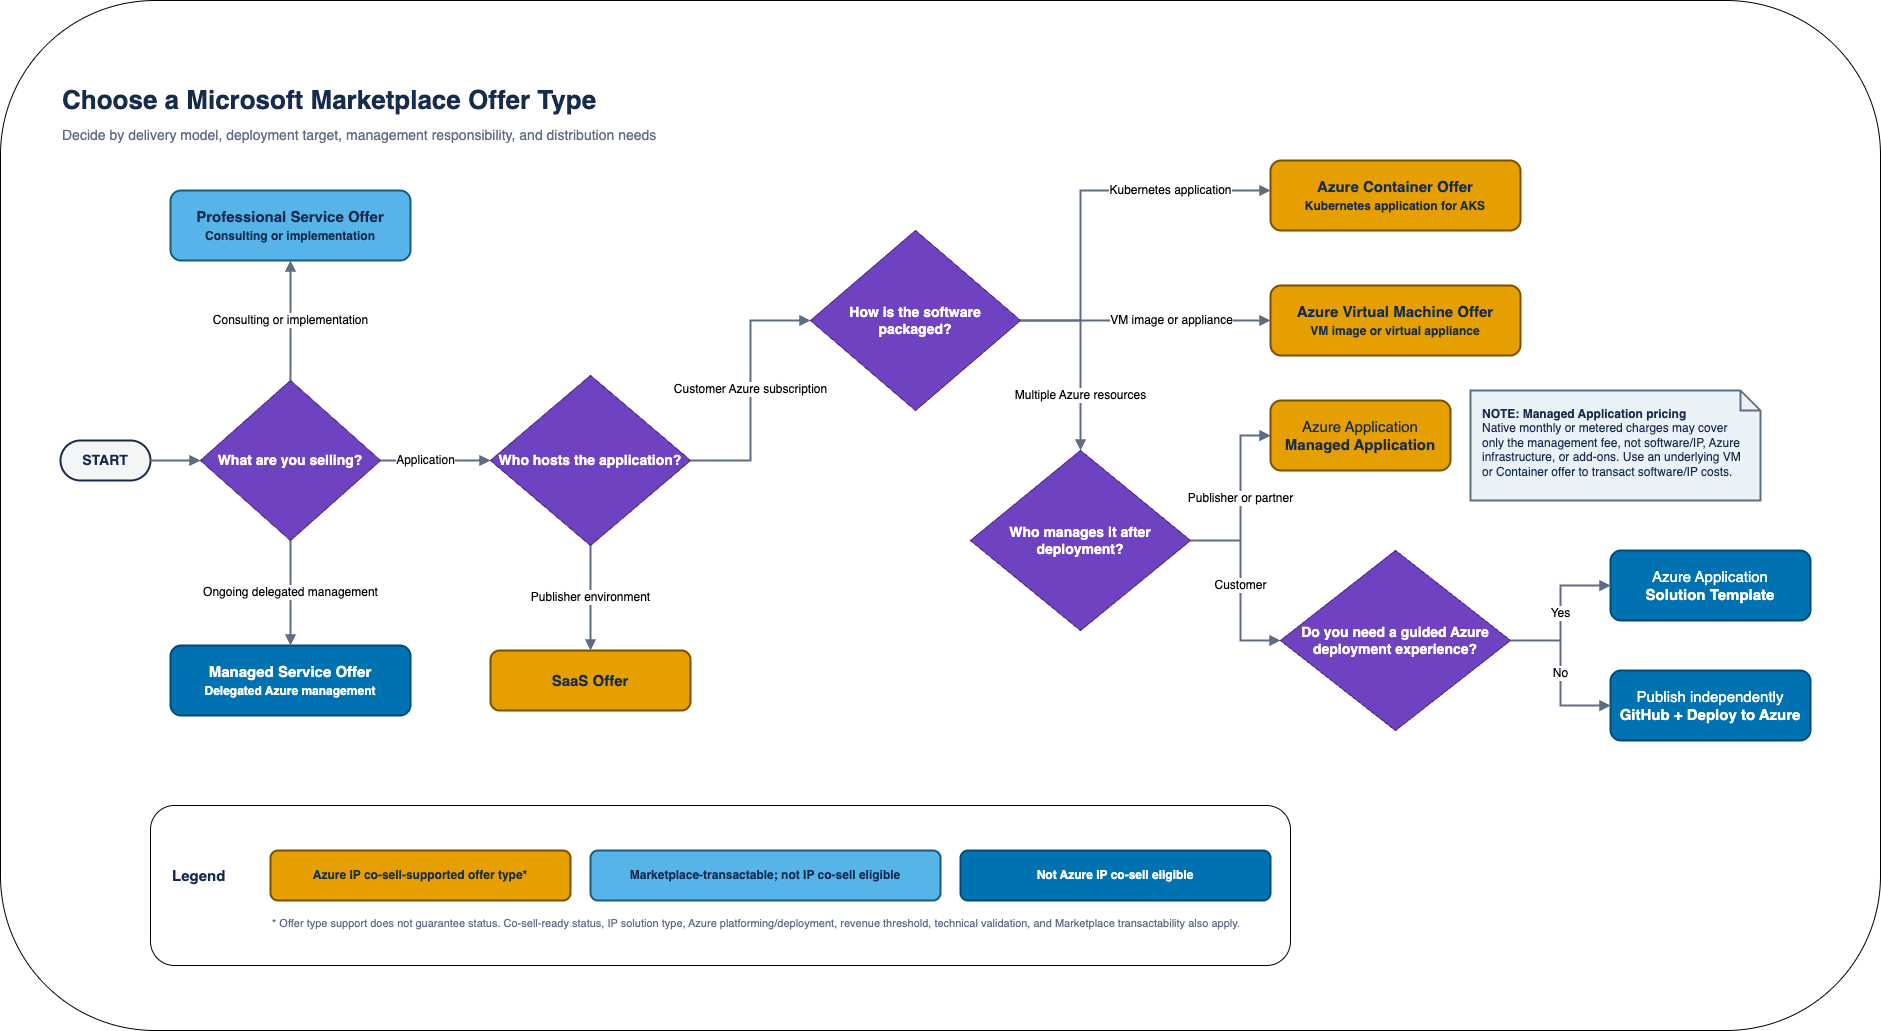
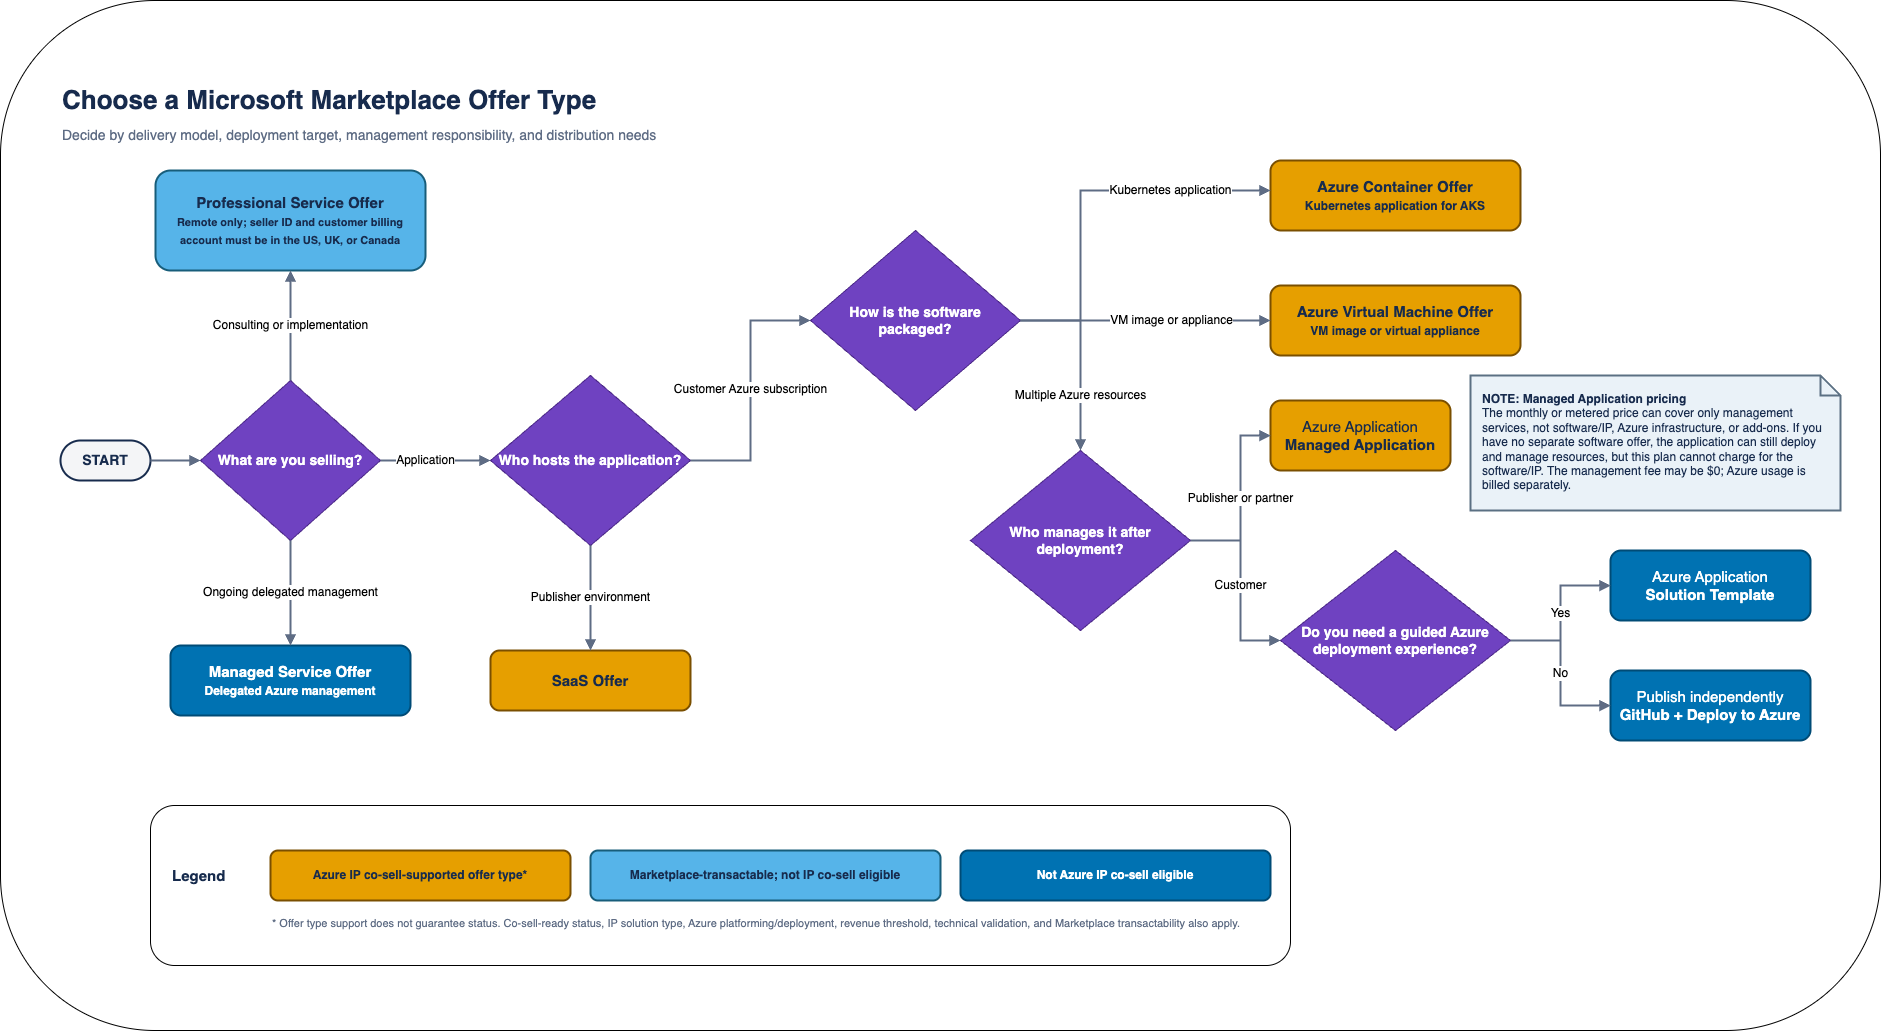
Update with caveats

Changed region(s): [[0.7709, 0.3725, 0.9867, 0.4966], [0.0617, 0.1552, 0.2467, 0.2793], [0.1233, 0.3104, 0.185, 0.3414]]

diff --git a/scripts/validate-drawio.rb b/scripts/validate-drawio.rb
@@ -1,0 +1,146 @@
+# frozen_string_literal: true
+
+require "rexml/document"
+require "set"
+
+DEFAULT_FILE = File.expand_path(
+  "../ip-cosell/decision-chart.drawio",
+  __dir__
+)
+
+DECISION_CHART_CATEGORIES = {
+  "saas" => ["[IP]", "#E69F00"],
+  "container" => ["[IP]", "#E69F00"],
+  "vm" => ["[IP]", "#E69F00"],
+  "managed" => ["[IP]", "#E69F00"],
+  "professional" => ["[TX]", "#56B4E9"],
+  "template" => ["[NO]", "#0072B2"],
+  "github" => ["[NO]", "#0072B2"],
+  "service" => ["[NO]", "#0072B2"],
+  "legend-ip" => ["[IP]", "#E69F00"],
+  "legend-tx" => ["[TX]", "#56B4E9"],
+  "legend-no" => ["[NO]", "#0072B2"]
+}.freeze
+
+def attribute(element, name)
+  return "" unless element
+
+  element.attributes.get_attribute(name)&.value.to_s
+end
+
+def number_attribute(element, name)
+  value = attribute(element, name)
+  value.empty? ? nil : Float(value)
+end
+
+def validate_bounds(cells_by_id, errors)
+  background = cells_by_id["3"]
+  return unless background
+
+  bounds = REXML::XPath.first(background, "mxGeometry")
+  return unless bounds
+
+  left = number_attribute(bounds, "x")
+  top = number_attribute(bounds, "y")
+  width = number_attribute(bounds, "width")
+  height = number_attribute(bounds, "height")
+  return unless [left, top, width, height].all?
+
+  right = left + width
+  bottom = top + height
+
+  cells_by_id.each_value do |cell|
+    next if cell.equal?(background) || attribute(cell, "vertex") != "1"
+
+    geometry = REXML::XPath.first(cell, "mxGeometry")
+    next unless geometry
+
+    x = number_attribute(geometry, "x")
+    y = number_attribute(geometry, "y")
+    cell_width = number_attribute(geometry, "width")
+    cell_height = number_attribute(geometry, "height")
+    next unless [x, y, cell_width, cell_height].all?
+
+    next if x >= left && y >= top && x + cell_width <= right &&
+            y + cell_height <= bottom
+
+    errors << "#{attribute(cell, 'id')}: geometry exceeds background bounds"
+  end
+end
+
+def validate_decision_chart(document, cells_by_id, errors)
+  diagram = REXML::XPath.first(document, "//diagram")
+  return unless diagram && attribute(diagram, "id") == "marketplace-offer-tree"
+
+  DECISION_CHART_CATEGORIES.each do |id, (prefix, fill)|
+    cell = cells_by_id[id]
+    unless cell
+      errors << "missing required cell: #{id}"
+      next
+    end
+
+    value = attribute(cell, "value")
+    style = attribute(cell, "style")
+    errors << "#{id}: value must start with #{prefix}" unless value.start_with?(prefix)
+    errors << "#{id}: expected fillColor=#{fill}" unless style.include?("fillColor=#{fill}")
+  end
+
+  professional = attribute(cells_by_id["professional"], "value")
+  unless professional.include?("US, UK, or Canada") &&
+         professional.include?("Remote only")
+    errors << "professional: missing market or remote-delivery limitation"
+  end
+
+  managed_note = attribute(cells_by_id["managed-app-note"], "value")
+  unless managed_note.include?("no separate software offer") &&
+         managed_note.include?("management fee may be $0") &&
+         managed_note.include?("Azure usage is billed separately")
+    errors << "managed-app-note: missing no-software-offer pricing guidance"
+  end
+end
+
+def validate_file(file_path)
+  document = REXML::Document.new(File.read(file_path))
+  cells = REXML::XPath.match(document, "//mxCell")
+  errors = []
+  seen_ids = Set.new
+  cells_by_id = {}
+
+  cells.each do |cell|
+    id = attribute(cell, "id")
+    errors << "mxCell without an id" if id.empty?
+    errors << "duplicate mxCell id: #{id}" unless seen_ids.add?(id)
+    cells_by_id[id] = cell unless id.empty?
+  end
+
+  edges = cells.select { |cell| attribute(cell, "edge") == "1" }
+  edges.each do |edge|
+    %w[source target].each do |endpoint|
+      reference = attribute(edge, endpoint)
+      unless !reference.empty? && cells_by_id.key?(reference)
+        errors << "#{attribute(edge, 'id')}: invalid #{endpoint} #{reference.inspect}"
+      end
+    end
+  end
+
+  validate_bounds(cells_by_id, errors)
+  validate_decision_chart(document, cells_by_id, errors)
+
+  if errors.empty?
+    puts "PASS #{file_path}: #{cells.length} cells, #{edges.length} edges"
+    return true
+  end
+
+  warn "FAIL #{file_path}:"
+  errors.each { |error| warn "  - #{error}" }
+  false
+rescue Errno::ENOENT
+  warn "FAIL #{file_path}: file not found"
+  false
+rescue REXML::ParseException => error
+  warn "FAIL #{file_path}: invalid XML: #{error.message.lines.first.strip}"
+  false
+end
+
+files = ARGV.empty? ? [DEFAULT_FILE] : ARGV
+exit(files.all? { |file_path| validate_file(File.expand_path(file_path)) } ? 0 : 1)
